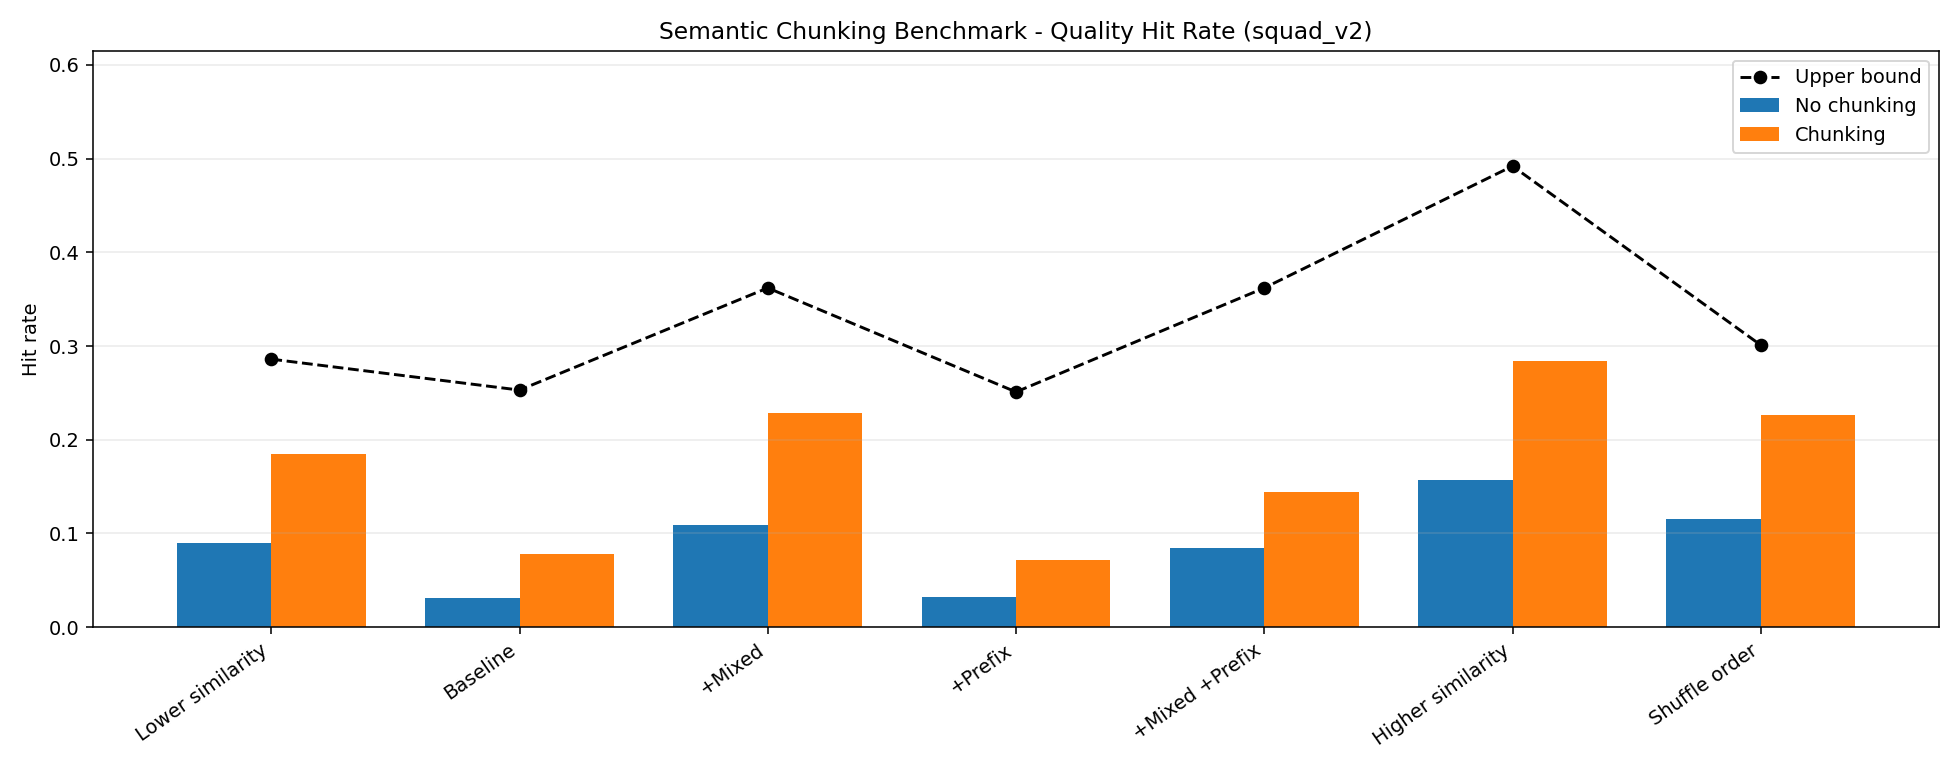
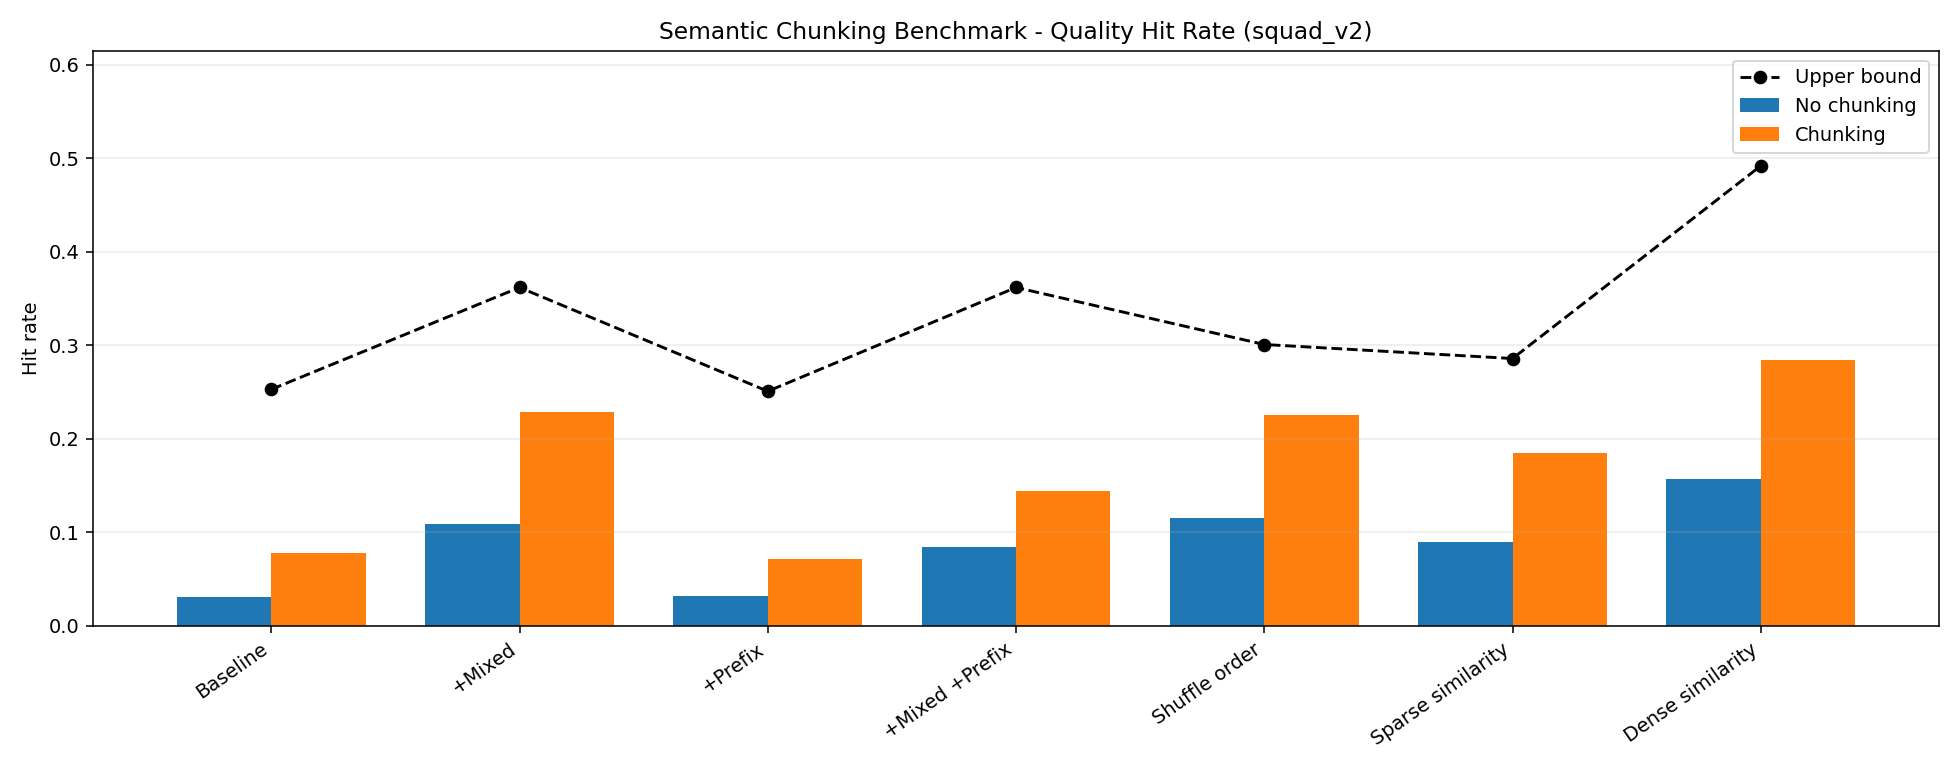
chore: rename some variants in plots

diff --git a/examples/benchmark/plot_semantic_chunk_benchmark.py b/examples/benchmark/plot_semantic_chunk_benchmark.py
@@ -118,8 +118,8 @@ def _variant_label(record: dict) -> str:
         (0.5, "primed", True, 0): "+Prefix",
         (0.5, "primed", True, 1): "+Mixed +Prefix",
         (0.5, "shuffle", False, 1): "Shuffle order",
-        (0.3, "primed", False, 1): "Lower similarity",
-        (0.7, "primed", False, 1): "Higher similarity",
+        (0.3, "primed", False, 1): "Sparse similarity",
+        (0.7, "primed", False, 1): "Dense similarity",
     }
     if key in pretty_names:
         return pretty_names[key]
@@ -137,12 +137,24 @@ def _plot_quality(records: List[dict], out_dir: str, title_prefix: str, dpi: int
         grouped[record["dataset"]].append(record)
 
     for dataset, dataset_records in grouped.items():
+        _VARIANT_ORDER = {
+            (0.5, "primed", False, 0): 0,  # Baseline
+            (0.5, "primed", False, 1): 1,  # +Mixed
+            (0.5, "primed", True, 0): 2,   # +Prefix
+            (0.5, "primed", True, 1): 3,   # +Mixed +Prefix
+            (0.5, "shuffle", False, 1): 4,  # Shuffle order
+            (0.3, "primed", False, 1): 5,  # Sparse similarity
+            (0.7, "primed", False, 1): 6,  # Dense similarity
+        }
         dataset_records.sort(
-            key=lambda r: (
-                r.get("order", ""),
-                r.get("target_rate", 0.0),
-                int(r.get("prefix_context", False)),
-                r.get("mixed_per_pair", 0),
+            key=lambda r: _VARIANT_ORDER.get(
+                (
+                    round(float(r.get("target_rate", 0.0)), 3),
+                    r.get("order"),
+                    bool(r.get("prefix_context")),
+                    int(r.get("mixed_per_pair", 0)),
+                ),
+                99,
             )
         )
 
